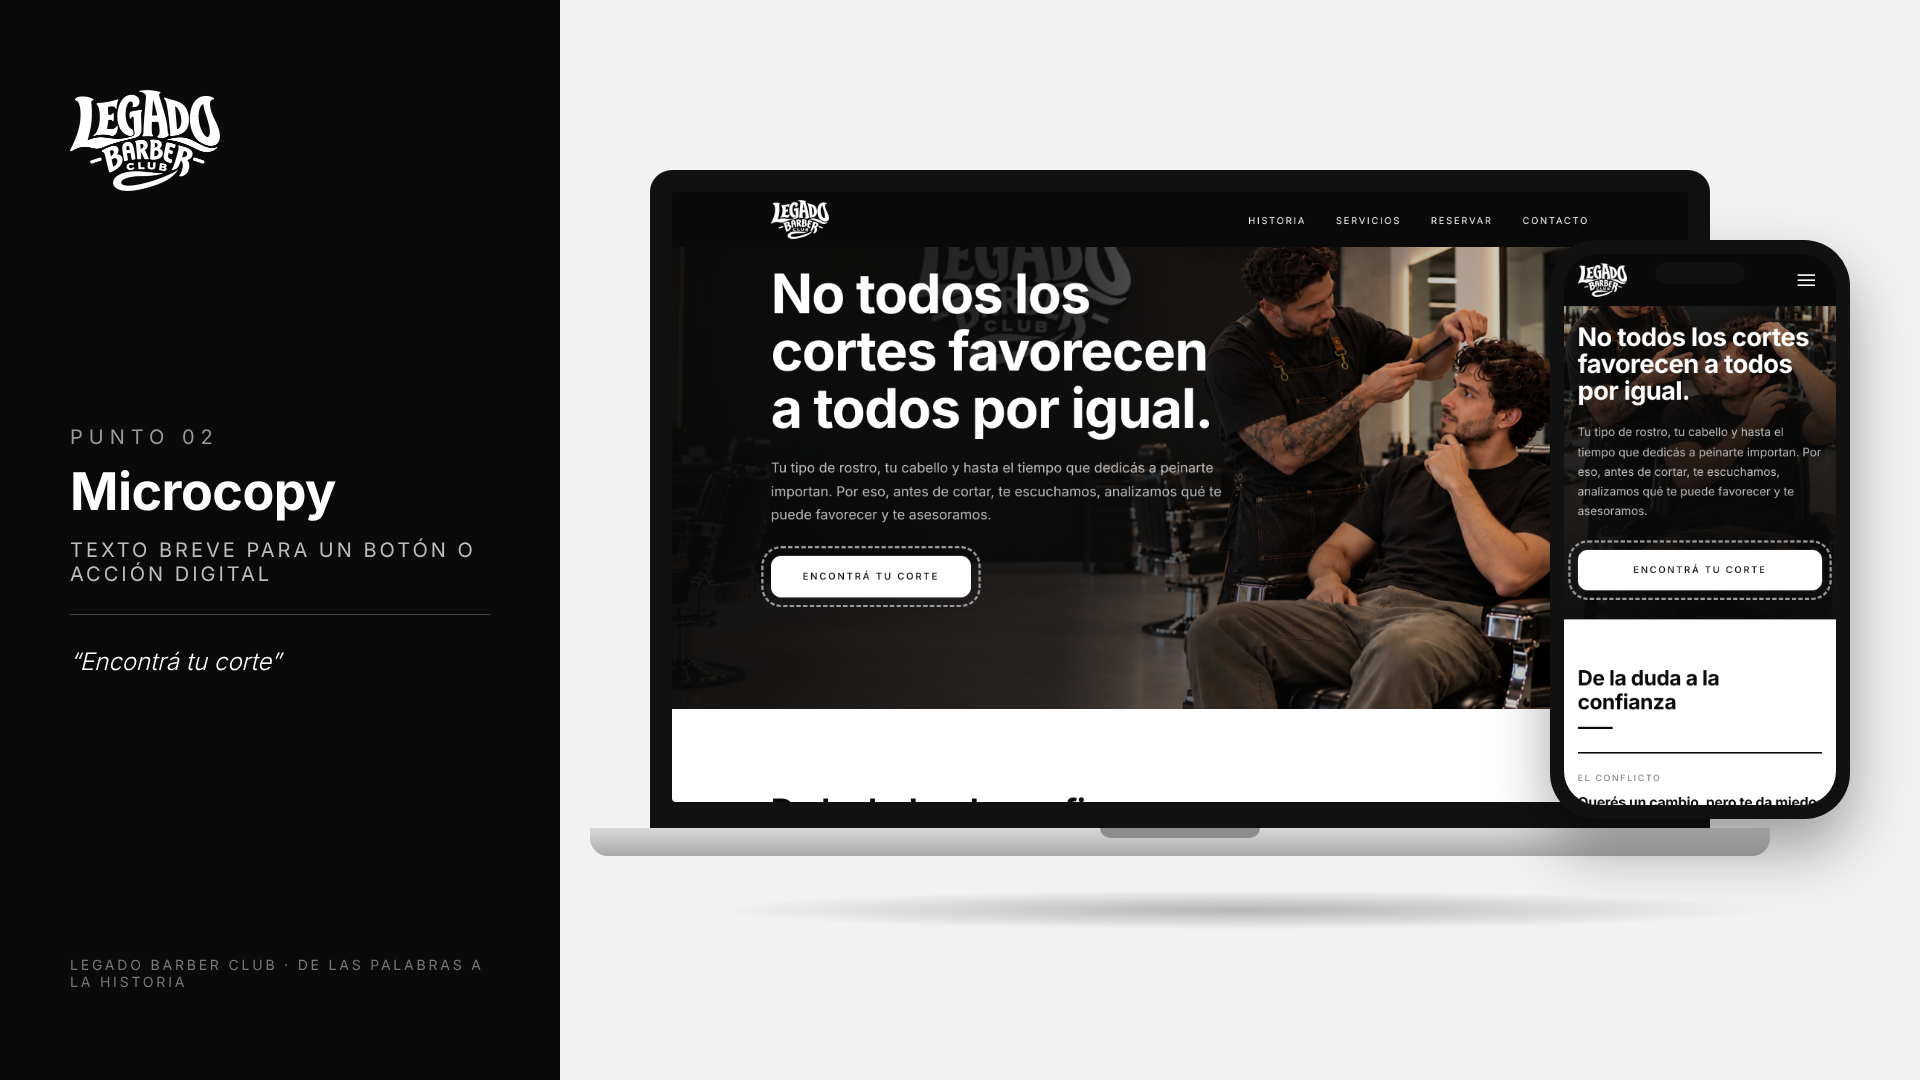
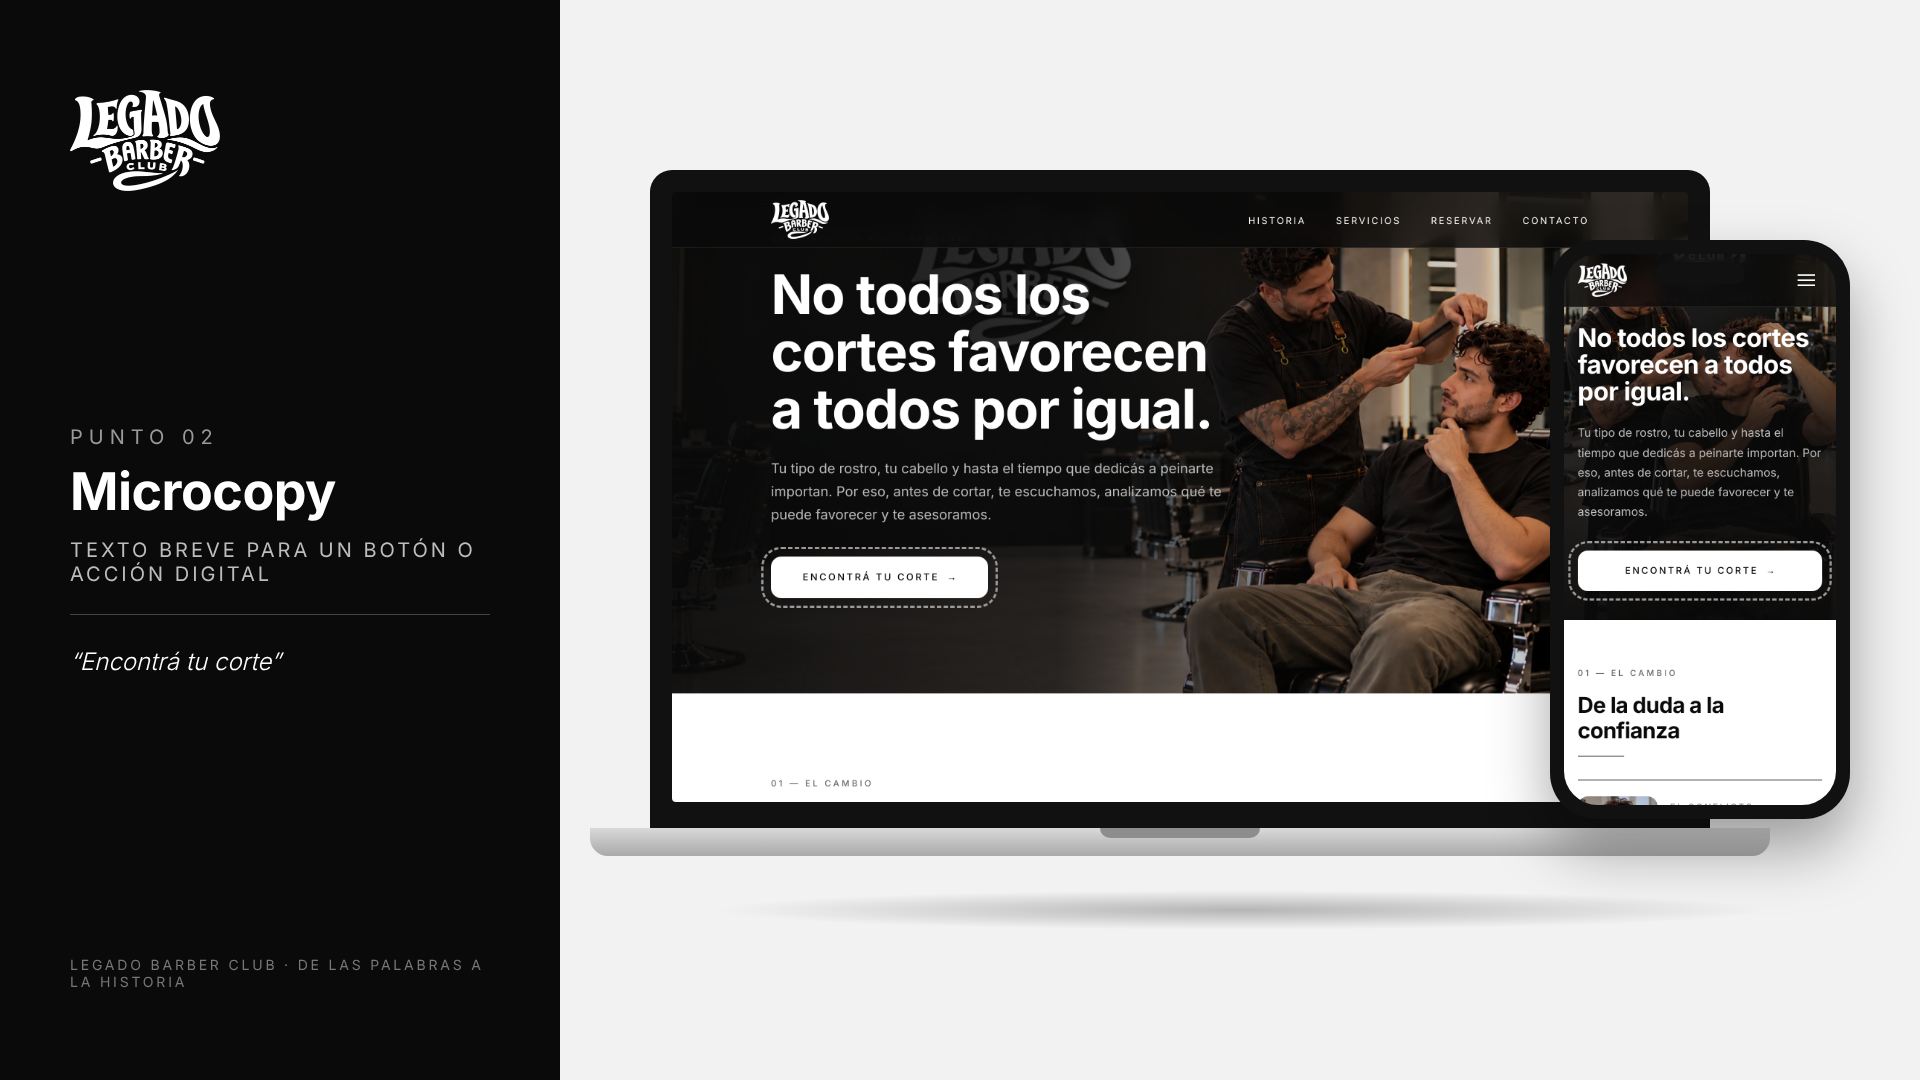
Storyboard de 8 momentos, fotos en conflicto/transformación y reserva, y estilo más elegante
- La historia de Diego con las 8 viñetas (carrusel deslizable en celular)
- Fotos en las tarjetas de conflicto y transformación, y en la reserva
- Menú translúcido con desenfoque, etiquetas editoriales numeradas, líneas finas
- Botones con flecha, aparición suave al bajar (respeta reducir movimiento)

Claude-Session: https://claude.ai/code/session_01RobnzDRJb2ZKhNGXWR7zKK

diff --git a/index.html b/index.html
@@ -8,7 +8,7 @@
   <meta name="theme-color" content="#0a0a0a">
   <link rel="icon" href="img/logo.jpg">
   <link rel="apple-touch-icon" href="img/logo.jpg">
-  <link rel="stylesheet" href="styles.css?v=20261021d">
+  <link rel="stylesheet" href="styles.css?v=20261022a">
 </head>
 <body>
   <header>
@@ -27,6 +27,7 @@
   <!-- 1. COPYWRITING + 2. MICROCOPY -->
   <section id="inicio" class="hero">
     <div class="hero-contenido">
+    <span class="eyebrow">Barbería con asesoramiento</span>
     <h1>No todos los cortes favorecen a todos por igual.</h1>
     <p class="hero-texto">Tu tipo de rostro, tu cabello y hasta el tiempo que dedicás a peinarte importan. Por eso, antes de cortar, te escuchamos, analizamos qué te puede favorecer y te asesoramos.</p>
     <a href="#reservar" class="btn">Encontrá tu corte</a>
@@ -35,42 +36,59 @@
 
   <!-- 5. CONFLICTO y 6. TRANSFORMACIÓN -->
   <section id="cambio" class="seccion">
+    <span class="eyebrow">01 — El cambio</span>
     <h2>De la duda a la confianza</h2>
     <div class="historia">
-      <article>
-        <span class="paso">El conflicto</span>
-        <h3>Querés un cambio, pero te da miedo equivocarte.</h3>
-        <p>El cliente quiere un cambio de imagen, pero teme elegir un corte que no le favorezca o que sea difícil de mantener en su día a día.</p>
+      <article class="caso">
+        <img src="img/historia/01.webp" alt="Diego mira su celular, con dudas sobre qué corte hacerse" width="374" height="412" loading="lazy">
+        <div>
+          <span class="paso">El conflicto</span>
+          <h3>Querés un cambio, pero te da miedo equivocarte.</h3>
+          <p>El cliente quiere un cambio de imagen, pero teme elegir un corte que no le favorezca o que sea difícil de mantener en su día a día.</p>
+        </div>
       </article>
-      <article>
-        <span class="paso">La transformación</span>
-        <h3>Salís con un corte que es para vos.</h3>
-        <p>Gracias a la escucha y al asesoramiento personalizado, el cliente pasa de la incertidumbre a la confianza. Encuentra un corte que se adapta a sus características y aprende a mantenerlo en casa.</p>
+      <article class="caso">
+        <img src="img/resultado-movil.webp" alt="Diego, con su nuevo corte, sonríe junto a su barbero" width="941" height="1672" loading="lazy">
+        <div>
+          <span class="paso">La transformación</span>
+          <h3>Salís con un corte que es para vos.</h3>
+          <p>Gracias a la escucha y al asesoramiento personalizado, el cliente pasa de la incertidumbre a la confianza. Encuentra un corte que se adapta a sus características y aprende a mantenerlo en casa.</p>
+        </div>
       </article>
     </div>
   </section>
 
   <!-- 4. STORYTELLING -->
   <section id="historia" class="seccion oscura">
+    <span class="eyebrow">02 — La historia</span>
     <h2>La historia de Diego</h2>
-    <div class="diego-grid">
-    <img class="diego-foto" src="img/diego.webp" alt="Diego le muestra al barbero, en su celular, la foto del corte que le gusta" width="1672" height="941" loading="lazy">
     <div class="relato">
       <p>Diego llegó a Legado Barber Club con la foto de un corte que le gustaba, pero con dudas sobre si le quedaría bien. Otras veces había pedido un estilo que después no podía mantener en casa.</p>
       <p>Antes de empezar, el barbero le preguntó qué buscaba y cuánto tiempo dedicaba a peinarse. Juntos adaptaron la referencia a su rostro, su cabello y su rutina. Al terminar, le enseñó cómo peinarlo en pocos pasos.</p>
       <p>A la mañana siguiente, Diego pudo acomodarse el cabello por su cuenta y salir sintiéndose seguro con su nuevo estilo.</p>
-      <a href="#reservar" class="btn">Encontrá tu corte</a>
     </div>
-    </div>
+    <ol class="storyboard" aria-label="La historia de Diego en 8 momentos">
+      <li><figure><img src="img/historia/01.webp" alt="Diego, pensativo, mira su celular" width="374" height="412" loading="lazy"><figcaption><span>01</span> La duda</figcaption></figure></li>
+      <li><figure><img src="img/historia/02.webp" alt="En el celular, la foto del corte que le gusta" width="376" height="412" loading="lazy"><figcaption><span>02</span> ¿Me quedará bien?</figcaption></figure></li>
+      <li><figure><img src="img/historia/03.webp" alt="Diego le muestra la foto al barbero" width="377" height="412" loading="lazy"><figcaption><span>03</span> Compartir la idea</figcaption></figure></li>
+      <li><figure><img src="img/historia/04.webp" alt="El barbero escucha lo que Diego busca" width="372" height="412" loading="lazy"><figcaption><span>04</span> Escuchar primero</figcaption></figure></li>
+      <li><figure><img src="img/historia/05.webp" alt="El barbero corta adaptando el estilo" width="374" height="421" loading="lazy"><figcaption><span>05</span> Adaptar su estilo</figcaption></figure></li>
+      <li><figure><img src="img/historia/06.webp" alt="El barbero le enseña a peinarse frente al espejo" width="376" height="421" loading="lazy"><figcaption><span>06</span> Aprender a peinarse</figcaption></figure></li>
+      <li><figure><img src="img/historia/07.webp" alt="Diego se peina solo en casa" width="377" height="421" loading="lazy"><figcaption><span>07</span> Listo en pocos pasos</figcaption></figure></li>
+      <li><figure><img src="img/historia/08.webp" alt="Diego sale seguro con su nuevo estilo" width="372" height="421" loading="lazy"><figcaption><span>08</span> Elegante y seguro</figcaption></figure></li>
+    </ol>
+    <p class="deslizar" aria-hidden="true">Deslizá para ver la historia →</p>
+    <a href="#reservar" class="btn">Encontrá tu corte</a>
   </section>
 
   <section id="servicios" class="seccion gris">
+    <span class="eyebrow">03 — Servicios</span>
     <h2>Servicios</h2>
     <div class="tarjetas">
-      <article><h3>Corte con asesoramiento</h3><p>Analizamos tu rostro, tu cabello y tu rutina, y decidimos juntos.</p></article>
-      <article><h3>Corte clásico</h3><p>Tijera o máquina, a tu medida y con acabado impecable.</p></article>
-      <article><h3>Barba y perfilado</h3><p>Toalla caliente, navaja y aceites para una barba que impone.</p></article>
-      <article><h3>Corte + Barba</h3><p>El combo completo para salir listo para todo.</p></article>
+      <article><span class="num-serv">01</span><h3>Corte con asesoramiento</h3><p>Analizamos tu rostro, tu cabello y tu rutina, y decidimos juntos.</p></article>
+      <article><span class="num-serv">02</span><h3>Corte clásico</h3><p>Tijera o máquina, a tu medida y con acabado impecable.</p></article>
+      <article><span class="num-serv">03</span><h3>Barba y perfilado</h3><p>Toalla caliente, navaja y aceites para una barba que impone.</p></article>
+      <article><span class="num-serv">04</span><h3>Corte + Barba</h3><p>El combo completo para salir listo para todo.</p></article>
     </div>
   </section>
 
@@ -78,7 +96,7 @@
   <section id="reservar" class="seccion oscura reserva">
     <div class="reserva-grid">
       <div class="reserva-info">
-        <span class="etiqueta">Reserva online</span>
+        <span class="eyebrow">04 — Reserva</span>
         <h2>Encontrá tu corte</h2>
         <p>Elegí tu servicio y el día que te queda bien. Te confirmamos por mensaje.</p>
         <ul class="beneficios">
@@ -86,6 +104,7 @@
           <li>Te asesoramos según tu rostro, tu cabello y tu rutina</li>
           <li>Te enseñamos a peinarlo en casa</li>
         </ul>
+        <img class="reserva-foto" src="img/espejo.webp" alt="Diego se mira al espejo con su nuevo corte mientras el barbero lo peina" width="1672" height="941" loading="lazy">
       </div>
 
       <form id="form-reserva" class="tarjeta-form" novalidate>
@@ -145,6 +164,7 @@
   </section>
 
   <section id="contacto" class="seccion gris">
+    <span class="eyebrow">05 — Contacto</span>
     <h2>Pasate por acá</h2>
     <div class="datos">
       <div><span class="paso">Dirección</span><p>Calle Principal 123</p></div>
@@ -158,6 +178,6 @@
     <p>© 2026 Legado Barber Club · Escuchamos antes de cortar<br><small>Sitio web con fines educativos</small></p>
   </footer>
 
-  <script src="script.js?v=20261021d"></script>
+  <script src="script.js?v=20261022a"></script>
 </body>
 </html>

diff --git a/styles.css b/styles.css
@@ -27,7 +27,11 @@ img { max-width: 100%; }
 h1, h2, h3 { font-family: var(--display); font-weight: 700; line-height: 1.15; letter-spacing: -.01em; }
 
 /* ---------- Navegación ---------- */
-header { position: sticky; top: 0; z-index: 10; background: var(--negro); }
+header {
+  position: sticky; top: 0; z-index: 10;
+  background: rgba(10,10,10,.82); -webkit-backdrop-filter: saturate(140%) blur(14px); backdrop-filter: saturate(140%) blur(14px);
+  border-bottom: 1px solid rgba(255,255,255,.08);
+}
 nav {
   display: flex; justify-content: space-between; align-items: center;
   padding: .7rem var(--margen);
@@ -84,14 +88,22 @@ nav ul a:hover { border-color: var(--blanco); }
   border: 1px solid var(--blanco); border-radius: var(--radio); cursor: pointer; transition: all .3s;
 }
 .btn:hover { background: transparent; color: var(--blanco); }
+.btn::after { content: '→'; display: inline-block; margin-left: .8em; letter-spacing: 0; transition: transform .3s; }
+.btn:hover::after { transform: translateX(5px); }
 .btn-negro { background: var(--negro); color: var(--blanco); border-color: var(--negro); }
 .btn-negro:hover { background: transparent; color: var(--negro); }
 
 /* ---------- Secciones ---------- */
 .seccion { padding: clamp(4rem, 10vw, 7rem) var(--margen); }
-.seccion h2 { font-size: clamp(1.8rem, 5vw, 2.8rem); letter-spacing: -.015em; }
+.seccion h2 { font-size: clamp(1.9rem, 5vw, 3rem); letter-spacing: -.025em; }
+.eyebrow {
+  display: block; margin-bottom: 1rem; font-size: .72rem; font-weight: 500;
+  letter-spacing: .28em; text-transform: uppercase; color: var(--gris);
+}
+.oscura .eyebrow, .hero .eyebrow { color: #8f8f8f; }
+.hero .eyebrow { margin-bottom: 1.6rem; }
 .seccion h2::after {
-  content: ''; display: block; width: 48px; height: 3px;
+  content: ''; display: block; width: 64px; height: 1px;
   background: currentColor; margin: 1.1rem 0 clamp(2rem, 5vw, 3rem);
 }
 .oscura { background: var(--negro); color: var(--blanco); }
@@ -102,23 +114,37 @@ nav ul a:hover { border-color: var(--blanco); }
   display: grid; grid-template-columns: repeat(auto-fit, minmax(min(100%, 280px), 1fr));
   gap: clamp(2rem, 5vw, 3rem); text-align: left;
 }
-.historia article { border-top: 2px solid var(--negro); padding-top: 1.2rem; }
+.historia article { border-top: 1px solid var(--negro); padding-top: 1.4rem; }
+.caso { display: grid; grid-template-columns: 180px 1fr; gap: 1.5rem; align-items: start; }
+.caso img {
+  width: 100%; height: auto; aspect-ratio: 4 / 5; object-fit: cover; object-position: 40% 20%;
+  border-radius: var(--radio); display: block;
+}
 .paso { font-size: .75rem; letter-spacing: .2em; text-transform: uppercase; color: var(--gris); }
 .historia h3 { margin: .6rem 0; font-size: clamp(1.2rem, 3vw, 1.45rem); }
 .historia p { color: var(--gris); }
 
 /* Historia de Diego */
-.diego-grid { display: grid; grid-template-columns: 1fr 1fr; gap: clamp(2rem, 5vw, 4rem); align-items: center; }
-.diego-foto {
-  width: 100%; height: auto; aspect-ratio: 4 / 5; object-fit: cover; object-position: 50% 50%;
-  border-radius: var(--radio); display: block;
-}
 .relato { max-width: 62ch; font-size: clamp(1rem, 2.5vw, 1.12rem); }
-.relato .btn { margin-top: 1rem; }
 .relato p { margin-bottom: 1.4rem; color: var(--gris-claro); }
 .relato p:first-child::first-letter {
   font-family: var(--display); font-weight: 700; font-size: 3.2rem; float: left; line-height: 1; padding-right: .5rem;
 }
+.storyboard {
+  list-style: none; display: grid; grid-template-columns: repeat(4, 1fr);
+  gap: clamp(1rem, 2.5vw, 1.5rem); margin-top: clamp(2.5rem, 6vw, 4rem);
+}
+.storyboard figure { margin: 0; }
+.storyboard img {
+  width: 100%; height: auto; aspect-ratio: 9 / 10; object-fit: cover; display: block;
+  border-radius: var(--radio); transition: filter .6s;
+  filter: grayscale(.15);
+}
+.storyboard li:hover img { filter: grayscale(0) brightness(1.05); }
+.storyboard figcaption { margin-top: .8rem; font-size: .92rem; color: var(--gris-claro); }
+.storyboard figcaption span { color: #8f8f8f; font-size: .72rem; letter-spacing: .2em; margin-right: .4rem; }
+#historia > .btn { margin-top: clamp(2.5rem, 6vw, 3.5rem); }
+.deslizar { display: none; margin-top: 1rem; font-size: .75rem; letter-spacing: .15em; text-transform: uppercase; color: #8f8f8f; }
 
 /* Servicios */
 .tarjetas {
@@ -130,6 +156,7 @@ nav ul a:hover { border-color: var(--blanco); }
 }
 .tarjetas article:hover { background: var(--negro); color: var(--blanco); border-color: var(--negro); }
 .tarjetas h3 { margin-bottom: .5rem; font-size: 1.15rem; }
+.num-serv { display: block; margin-bottom: 2.2rem; font-size: .72rem; letter-spacing: .2em; color: #9a9a9a; }
 .tarjetas p { color: var(--gris); transition: color .3s; }
 .tarjetas article:hover p { color: var(--gris-claro); }
 
@@ -138,11 +165,13 @@ nav ul a:hover { border-color: var(--blanco); }
   display: grid; grid-template-columns: 1fr 1.35fr; gap: clamp(2rem, 6vw, 5rem); align-items: start;
 }
 .reserva-info { position: sticky; top: calc(var(--nav-alto) + 2rem); }
-.etiqueta { font-size: .75rem; letter-spacing: .2em; text-transform: uppercase; color: #9a9a9a; }
-.reserva-info h2 { margin-top: .6rem; }
 .reserva-info h2::after { margin-bottom: 1.5rem; }
 .reserva-info > p { color: var(--gris-claro); margin-bottom: 1.8rem; }
 .beneficios { list-style: none; display: grid; gap: .9rem; }
+.reserva-foto {
+  width: 100%; height: auto; aspect-ratio: 16 / 10; object-fit: cover; object-position: 65% 40%;
+  border-radius: var(--radio); display: block; margin-top: 2.5rem;
+}
 .beneficios li { display: flex; gap: .8rem; align-items: baseline; color: var(--gris-claro); }
 .beneficios li::before {
   content: '✓'; flex: none; display: grid; place-items: center; width: 22px; height: 22px;
@@ -238,6 +267,7 @@ footer p { text-align: right; }
   .tarjetas { grid-template-columns: repeat(2, 1fr); }
 }
 @media (max-width: 540px) {
+  .caso { grid-template-columns: 110px 1fr; gap: 1.1rem; }
   .tarjetas { grid-template-columns: 1fr; }
 }
 
@@ -259,8 +289,15 @@ footer p { text-align: right; }
       linear-gradient(0deg, rgba(10,10,10,.97) 0%, rgba(10,10,10,.85) 38%, rgba(10,10,10,.2) 70%, rgba(10,10,10,.05) 100%),
       url('img/portada-movil.webp') center top / cover no-repeat var(--negro);
   }
-  .diego-grid { grid-template-columns: 1fr; }
-  .diego-foto { aspect-ratio: 16 / 10; }
+  /* Storyboard deslizable en celular */
+  .storyboard {
+    grid-template-columns: none; grid-auto-flow: column; grid-auto-columns: 68%;
+    overflow-x: auto; scroll-snap-type: x mandatory; scrollbar-width: none;
+    margin-inline: calc(-1 * var(--margen)); padding-inline: var(--margen); scroll-padding-inline: var(--margen);
+  }
+  .storyboard::-webkit-scrollbar { display: none; }
+  .storyboard li { scroll-snap-align: start; }
+  .deslizar { display: block; }
   .datos { grid-template-columns: 1fr; }
   footer p { text-align: left; }
 }
@@ -273,4 +310,11 @@ footer p { text-align: right; }
 @media (prefers-reduced-motion: reduce) {
   html { scroll-behavior: auto; }
   * { transition: none !important; }
+}
+
+/* Aparición suave al bajar (script.js añade .revelar y luego .visible) */
+.revelar { opacity: 0; transform: translateY(22px); transition: opacity .9s ease, transform .9s cubic-bezier(.2,.7,.2,1); }
+.revelar.visible { opacity: 1; transform: none; }
+@media (prefers-reduced-motion: reduce) {
+  .revelar { opacity: 1; transform: none; }
 }

diff --git a/script.js b/script.js
@@ -74,3 +74,20 @@ function avisar(texto, campo) {
     campo.focus();
   }
 }
+
+// Aparición suave de los bloques al bajar por la página
+const aRevelar = document.querySelectorAll('.eyebrow, .seccion h2, .historia article, .relato, .storyboard li, .tarjetas article, .reserva-info, .tarjeta-form, .datos div');
+if ('IntersectionObserver' in window && !matchMedia('(prefers-reduced-motion: reduce)').matches) {
+  const observador = new IntersectionObserver(entradas => entradas.forEach(e => {
+    if (e.isIntersecting) { e.target.classList.add('visible'); observador.unobserve(e.target); }
+  }), { threshold: .12, rootMargin: '0px 0px -40px 0px' });
+  const carrusel = matchMedia('(max-width: 760px)').matches; // en celular el storyboard se desliza en horizontal
+  aRevelar.forEach(el => {
+    if (carrusel && el.matches('.storyboard li')) return;
+    el.classList.add('revelar');
+    // Pequeño escalonado dentro de cada grupo
+    const hermanos = [...el.parentElement.children];
+    el.style.transitionDelay = `${Math.min(hermanos.indexOf(el), 4) * 80}ms`;
+    observador.observe(el);
+  });
+}
